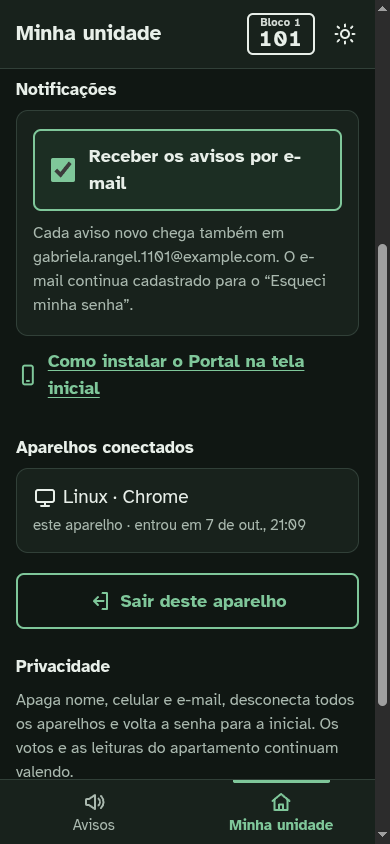
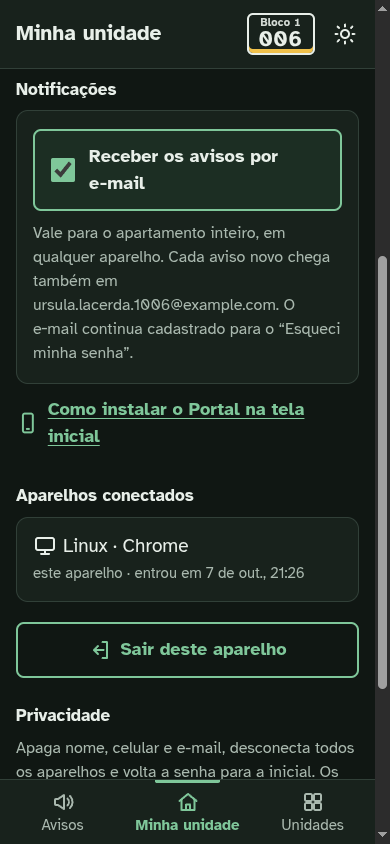
docs: correções da revisão dos ajustes do M2 nas dúvidas e nos specs; prints refeitos

diff --git a/docs/superpowers/duvidas-m2.md b/docs/superpowers/duvidas-m2.md
@@ -227,8 +227,8 @@ Plano: `docs/superpowers/plans/m2-ajustes.md`. Prints: `docs/superpowers/prints/
 Decisões tomadas sem perguntar (podem ser revistas):
 
 1. **"Apagar meus dados" volta a opção para ligada.** O apartamento recomeça do zero (senha
-   inicial, primeiro acesso de novo); quem fizer o novo primeiro acesso começa com o padrão. O
-   "resetar senha" da administração **não** mexe na opção (é o mesmo morador).
+   inicial, primeiro acesso de novo); quem fizer o novo primeiro acesso começa com o padrão.
+   (O reset da administração também volta; ver as correções da revisão, abaixo.)
 2. **Sem e-mail cadastrado, a caixa não aparece:** no lugar dela, "Para receber os avisos por
    e-mail, cadastre um e-mail em “Mudar meus dados”.". A API aceita mudar a opção mesmo sem
    e-mail (é só a preferência); se a pessoa cadastrar e-mail depois, vale o que estiver lá.
@@ -243,3 +243,27 @@ Decisões tomadas sem perguntar (podem ser revistas):
 6. **Exemplos do épico B:** `prints/m2-email/exemplo-email-aviso.{txt,html}` refeitos com o
    rodapé novo; o print `06-email-aviso.png` ficou com o rodapé antigo (é registro do épico B).
 7. **`07-roadmap.md` não foi mexido:** o status "1.3.0 no ar" é do coordenador, depois do deploy.
+
+### Correções das duas revisões independentes (ainda 1.3.0)
+
+1. **Reset da administração** (`resetar` em `app/servicos/administracao.py`) volta a opção para
+   ligada, como o "Apagar meus dados" (teste em `test_administracao_reset.py`).
+2. **A ajuda da caixa diz "Vale para o apartamento inteiro, em qualquer aparelho."**: ao lado do
+   "neste aparelho" do push, evita que alguém desmarque e o familiar dono do e-mail pare de
+   receber sem saber.
+3. **Novidade da 1.3.0** não promete mais "todos os celulares do apartamento": "Quem publica um
+   aviso agora também recebe a notificação (nos aparelhos com notificação ativada) e o e-mail, se
+   estiver ligado.".
+4. **Foco:** `aria-disabled` no lugar de `disabled` enquanto salva (o toque repetido é ignorado
+   no código). Com `disabled`, o foco ia para o body ao salvar; conferido no navegador que fica
+   na caixa.
+5. **Rodapé do e-mail do aviso:** "…desmarque “Receber os avisos por e-mail” em Minha unidade, no
+   Portal: <url_base>/minha-unidade. O e-mail continua valendo para o “Esqueci minha senha”." No
+   HTML, "Minha unidade" é o link (`rodape_do_aviso` em `app/servicos/email.py`). Exemplos
+   `prints/m2-email/exemplo-email-aviso.{txt,html}` refeitos. Sem sessão, o link cai na tela de
+   entrar, como o link do aviso.
+6. **Hífen que não quebra** (U+2011) em "e‑mail" no rótulo e na ajuda da caixa.
+7. **"Salvando…"** na ajuda enquanto salva.
+
+Prints refeitos em `prints/m2-ajustes/`. Não mexido, por decisão da revisão: tempo e posição do
+recado global (ele cobre o topo da seção por alguns segundos) e o tratamento de 401.

diff --git a/docs/superpowers/specs/m2-email.md b/docs/superpowers/specs/m2-email.md
@@ -69,7 +69,7 @@ as mensagens.
 | Título | o título | `<h1>` |
 | Texto | o texto do aviso **como foi escrito** (as marcas `##`, `-`, `1.`, `>` e `**` são legíveis em texto puro) | o Markdown restrito do Portal convertido (2.4) |
 | Link | "Abrir no Portal: <url_base>/avisos/<id>" | botão "Abrir no Portal" + o endereço escrito embaixo |
-| Rodapé | "Você recebe porque cadastrou este e-mail no Portal Capibaribe Prime. Para não receber mais, desmarque “Receber os avisos por e-mail” em Minha unidade." | o mesmo, em letra menor |
+| Rodapé | "Você recebe porque cadastrou este e-mail no Portal Capibaribe Prime. Para não receber mais, desmarque “Receber os avisos por e-mail” em Minha unidade, no Portal: <url_base>/minha-unidade. O e-mail continua valendo para o “Esqueci minha senha”." | o mesmo, em letra menor, com "Minha unidade" em link no lugar do endereço |
 
 **Ajustes do M2 (1.3.0):** parar de receber passou a ser a opção "Receber os avisos por e-mail"
 de Minha unidade (resposta do Erick à dúvida 7 do contrato). O e-mail continua cadastrado e o

diff --git a/docs/superpowers/specs/m2-contrato.md b/docs/superpowers/specs/m2-contrato.md
@@ -261,7 +261,9 @@ mandar um formulário de troca de senha.
   Assunto "Aviso do Portal: <título>"; texto puro com o texto do aviso, o link
   `url_base + aviso.caminho` e o rodapé "Você recebe porque cadastrou este e-mail no Portal
   Capibaribe Prime. Para não receber mais, desmarque “Receber os avisos por e-mail” em Minha
-  unidade." (ajustes do M2, 1.3.0; até a 1.2.0 mandava apagar o e-mail). Remetente
+  unidade, no Portal: <url_base>/minha-unidade. O e-mail continua valendo para o “Esqueci minha
+  senha”." (ajustes do M2, 1.3.0; no HTML, "Minha unidade" é link; até a 1.2.0 mandava apagar
+  o e-mail). Remetente
   "Portal Capibaribe Prime <conta do Portal>".
 - Telas (protótipo `#esqueci`): "Esqueci minha senha" (`/esqueci-a-senha`, só sem sessão):
   bloco e apartamento, "Mandar link", e a caixa com a mensagem de H-04 mais "Sem e-mail
